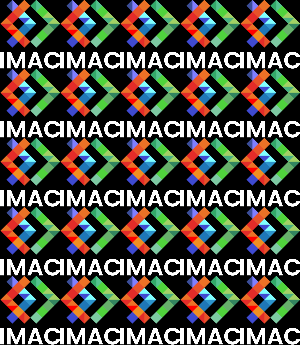
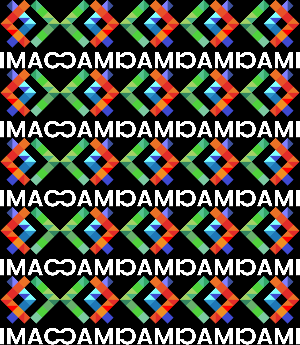
Premier prototype de mosaique miroir

diff --git a/src/workshop.cpp b/src/workshop.cpp
@@ -178,14 +178,13 @@ void mosaiqueMiroir(sil::Image image, int repetition) {
     sil::Image nouvelleImage {image.width(), image.height()};
 
     bool miroirHorizontal {false};
-
     bool miroirVertical {false};
 
     for (int x{0}; x < image.width(); x++)
     {
         for (int y{0}; y < image.height(); y++)
         {
-            if ((x/image.width()*repetition)%2 != 0)
+            if ((x/(image.width()/repetition))%2 != 0)
             {
                 miroirHorizontal = true;
             }
@@ -241,7 +240,7 @@ void vortex(sil::Image image);
 
 void tramage(sil::Image image);
 
-void normalisatiHistogramme(sil::Image image);
+void normalisationHistogramme(sil::Image image);
 
 void convolutions(sil::Image image);
 

diff --git a/src/main.cpp b/src/main.cpp
@@ -4,7 +4,7 @@ int main()
 {
     sil::Image image{"images/logo.png"};
 
-    disque(55);
+    mosaiqueMiroir(image, 5);
 
     return 0;
 }
